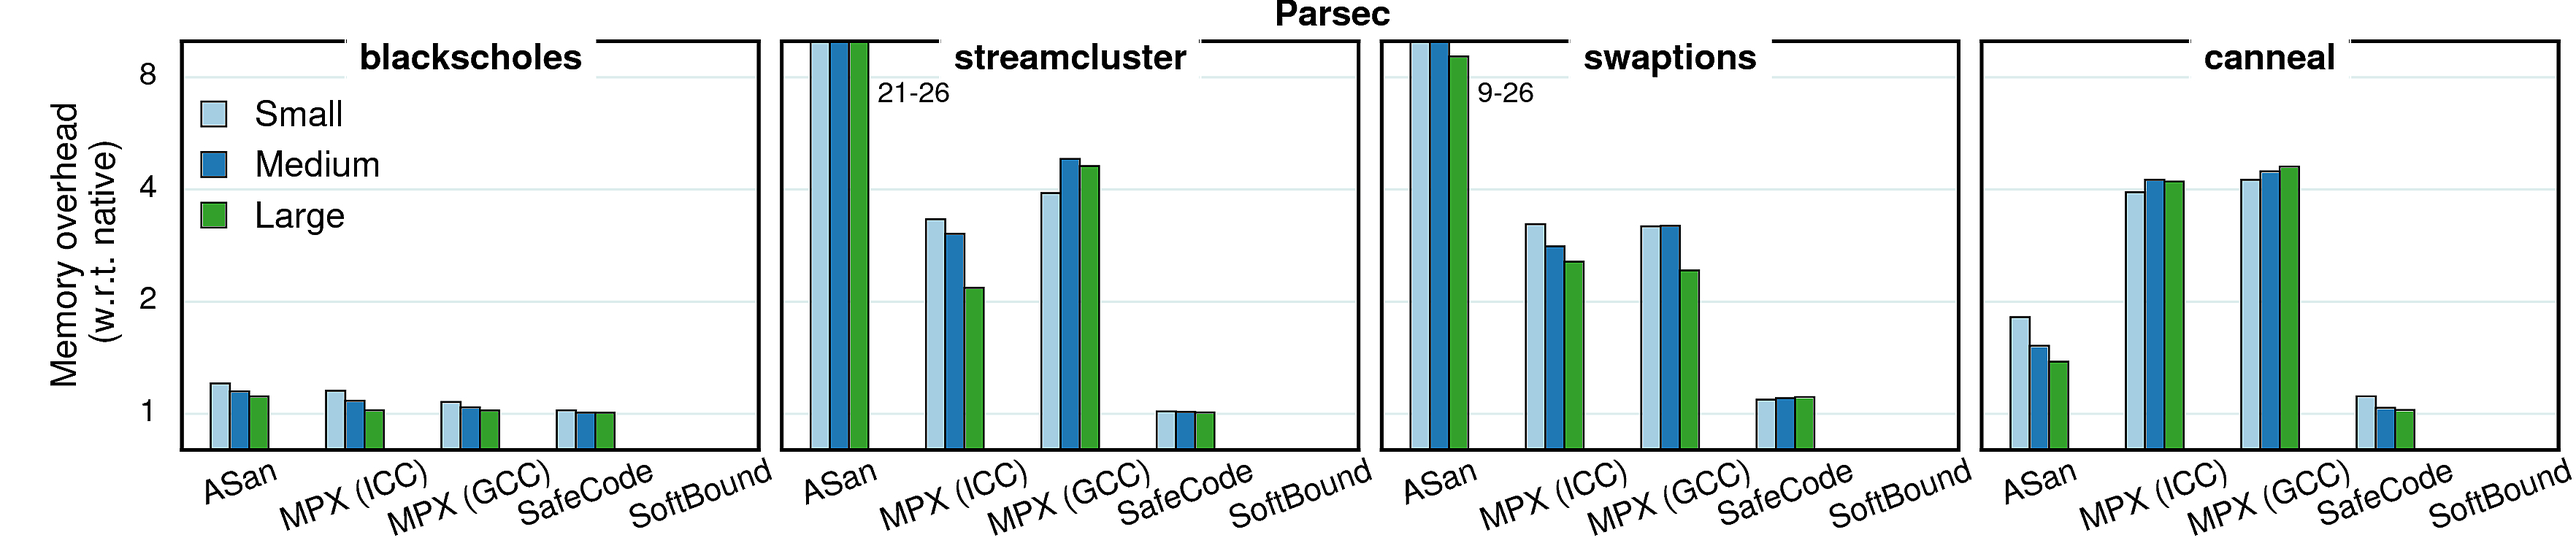
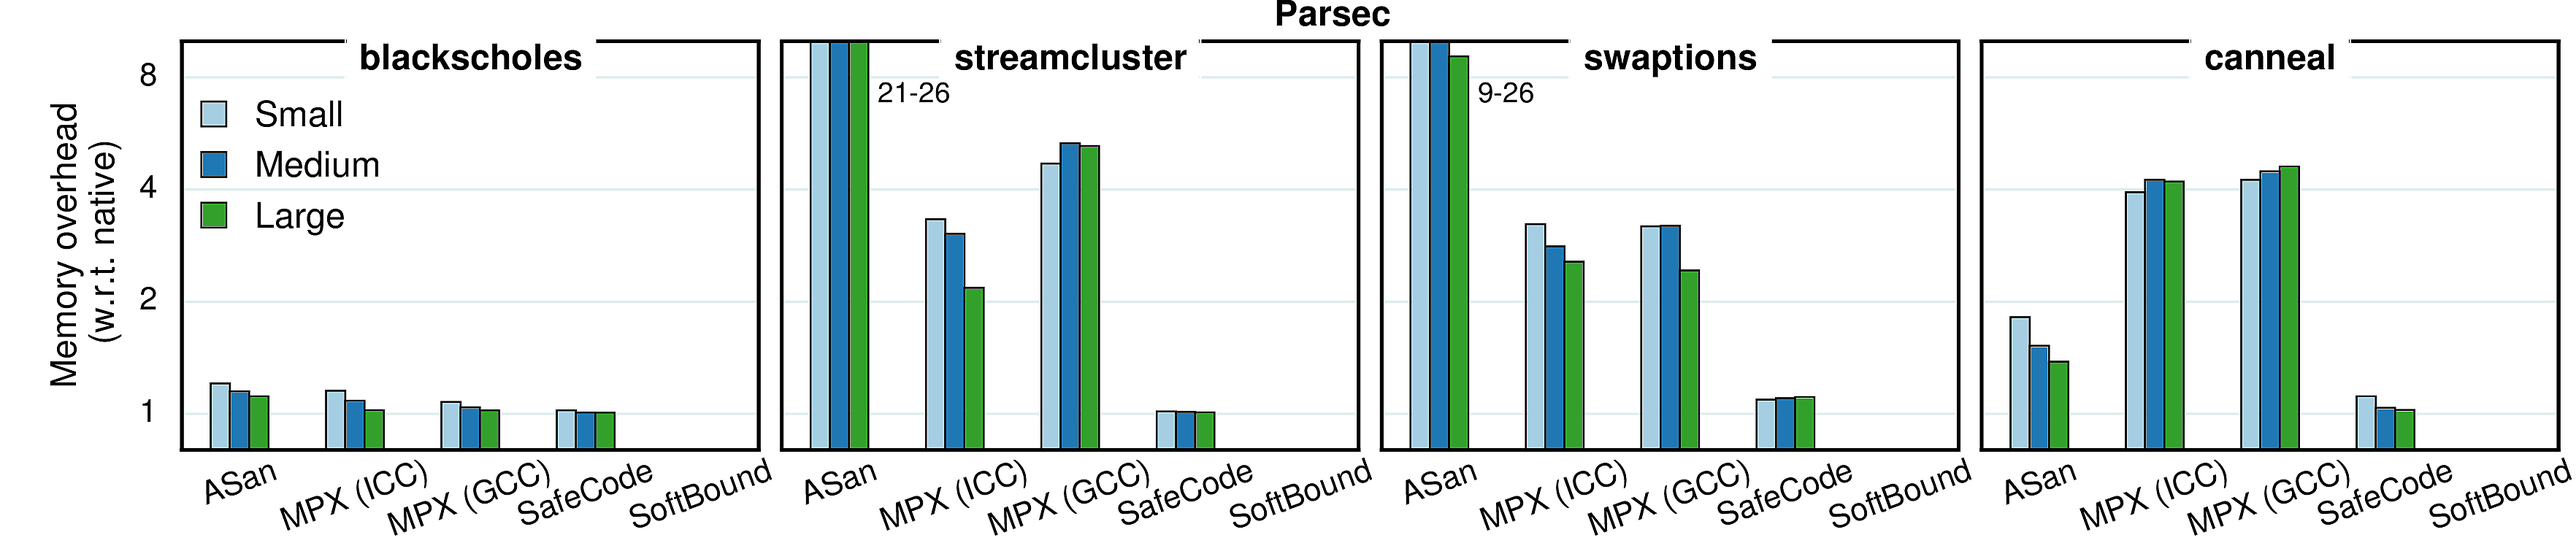
performance: updated parsec var. input plot; discussion of var. inputs

diff --git a/pages/performance.md b/pages/performance.md
@@ -232,7 +232,11 @@ Similar to the previous observation, this is an issue with hyperthreading: MPX i
 
 ## Varying input sizes
 
-TBD.
+In all previous experiments we used constant input sizes.
+However, different working sets may have different cache behaviors, which causes changes in overheads.
+To investigate this issue, we conducted a set of experiments with varying inputs.
+We picked 4 benchmarks from each of the considered suites and ran them with 3 inputs, each next one twice bigger than previous.
+The results are presented in the next two sections.
 
 ### Performance
 
@@ -240,7 +244,16 @@ TBD.
 <img class="t20" width="100%" src="{{ site.urlimg }}parsec_var_input_perf.jpg"  alt="Varying inputs - performance (Parsec)">
 <img class="t20" width="100%" src="{{ site.urlimg }}spec_var_input_perf.jpg"    alt="Varying inputs - performance (SPEC)">
 
-**Observation 1**: TBD.
+Generally, working set size has very little impact on performance overhead of any of the considered approaches, although there are some peculiar cases.
+
+**Observation 1**: As mentioned in [Cache utilization](/performance/#cache-utilization), the overhead in `word_count` is partially masked by the high number of cache misses.
+Since "small" input causes less cache misses, the masking effect is smaller and the overall overhead gets higher.
+Same goes for `libquantum`.
+
+**Observation 2**: In the native version of `matrix_multiply` IPC gets higher when the input growth, but in GCC-MPX version it stays roughly the same. It means that protection creates additional data dependencies that are partially blocking instruction-level parallelism (ILP). Correspondingly, the overhead growth.
+
+**Observation 3**: MPX-ICC version of `canneal` has higher overhead with medium input than with the two others, which can be explained by cache locality. In native version both small and medium inputs have very small percentage of LLC misses (0.08% and 3.67%, correspondingly) and only large input reaches the cache size (41,3% misses). The MPX version, on the contrary, has higher difference between small and medium inputs (39% and 68% LLC misses) than between medium and large (grows from 68% to 75%). Therefore, the relative overhead has a bump in the middle. 
+
 
 ### Memory consumption
 
@@ -248,7 +261,18 @@ TBD.
 <img class="t20" width="100%" src="{{ site.urlimg }}parsec_var_input_mem.jpg"  alt="Varying inputs - memory (Parsec)">
 <img class="t20" width="100%" src="{{ site.urlimg }}spec_var_input_mem.jpg"    alt="Varying inputs - memory (SPEC)">
 
-**Observation 1**: TBD.
+In contrast to performance, the general tendency for memory is overhead reduction when input size increases.
+It is caused by the fact that all protections have a part of the memory overhead which is constant (e.g., Shadow Memory in Address Sanitizer or Bounds Directory in MPX). 
+Accordingly, when the memory consumption increases, the share of this part becomes smaller and the overall memory overhead decreases. 
+
+**Observation 1**: Some benchmarks have a reversed tendency in MPX versions---for both `streamcluster` and `canneal` overhead raises with growth of the input.
+It means that most of it comes from the dynamic part---Bounds Tables.
+Indeed, if we compare ICC and GCC versions of `streamcluster`, we see that ICC has a stable number of BTs (6 for all inputs) whereas in GCC the amount of BTs grows with the input (8, 11, and 16 BTs).
+Consequently, these two versions have opposite dynamics.
+
+**Observation 2**: `libquantum` and `dealII` have a bump in AddressSanitizer versions.
+It is caused by the quarantine zone, which may take a lot of space when memory regions are often allocated and freed.
+Accordingly, when we repeated the experiment with a quarantine zone of a small size (1MB), the dynamics became similar to other benchmarks---the overhead was steadily decreasing. 
 
 ## Other statistics
 

diff --git a/pages/design.md b/pages/design.md
@@ -43,8 +43,8 @@ obj* a[10]                      // Array of pointers to objs
 total = 0
 for (i=0; i<M; i++):
     ai = a + i                  // Pointer arithmetic on a
-    objptr = load ai            // Pointer to obj at a[i]}
-    lenptr = objptr + 100       // Pointer to obj.len}
+    objptr = load ai            // Pointer to obj at a[i]
+    lenptr = objptr + 100       // Pointer to obj.len
     len = load lenptr
     total += len                // Total length of all objs
 ```
